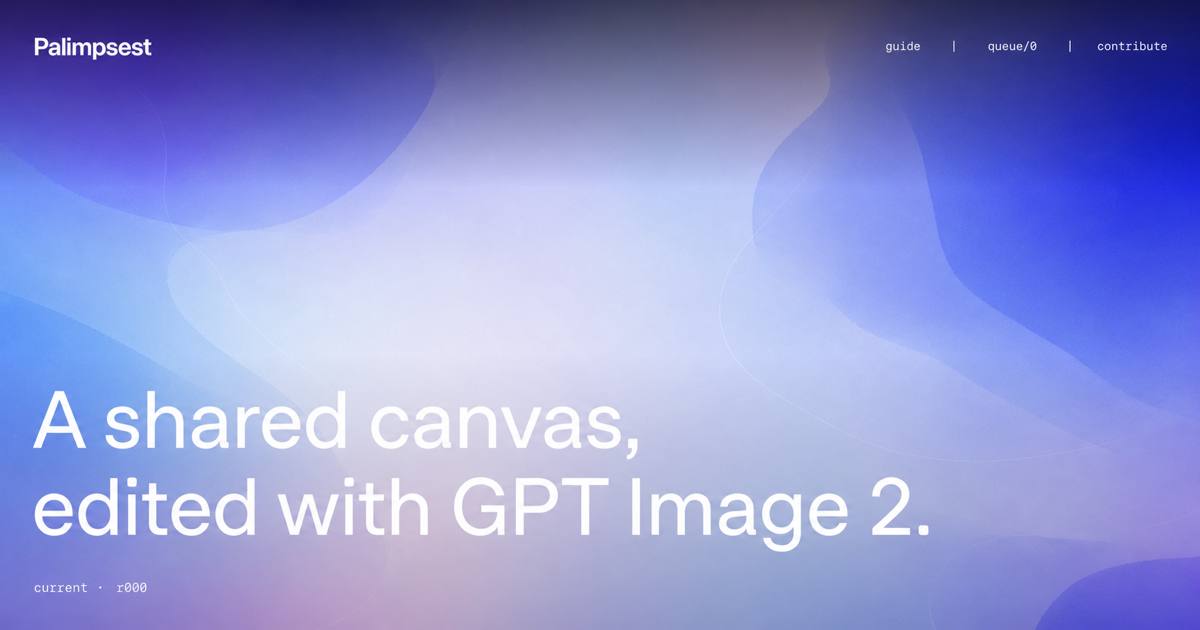
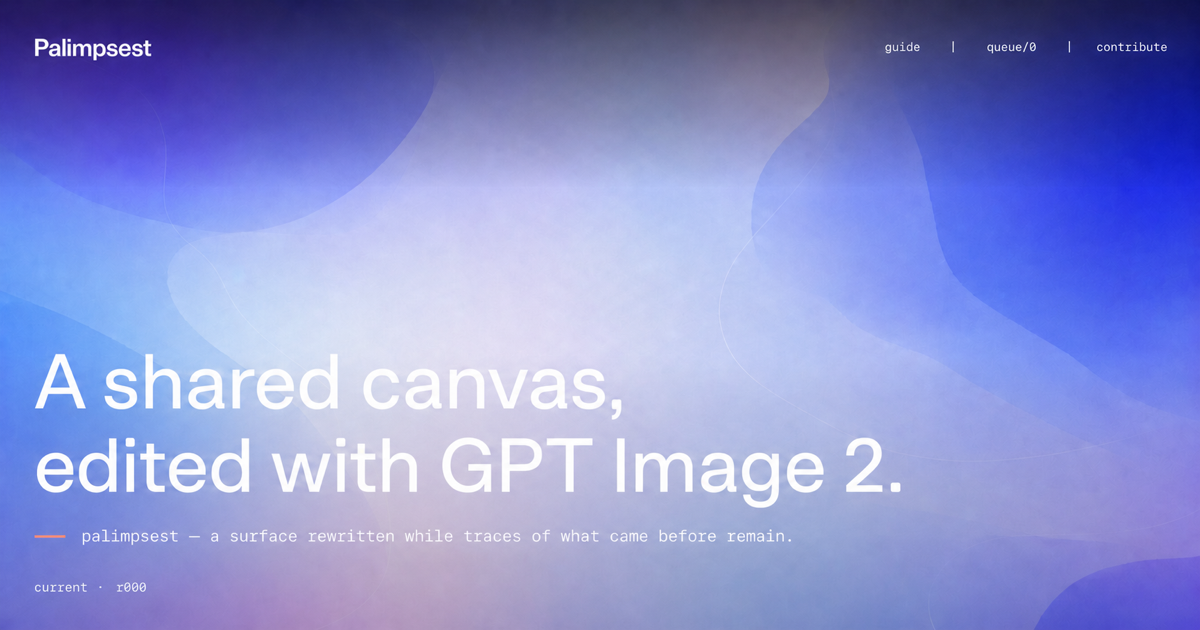
Explain Palimpsest in public sharing copy

diff --git a/app/layout.tsx b/app/layout.tsx
@@ -8,7 +8,7 @@ export async function generateMetadata(): Promise<Metadata> {
   const metadataBase = siteUrlFromHeaders(requestHeaders);
   const title = "Palimpsest";
   const description =
-    "A shared canvas edited with GPT Image 2. Add to the image and explore every revision.";
+    "Palimpsest is a shared canvas edited with GPT Image 2—named for a surface rewritten while traces of what came before remain.";
 
   return {
     metadataBase,
@@ -51,7 +51,7 @@ export async function generateMetadata(): Promise<Metadata> {
           url: "/og.png",
           width: 1200,
           height: 630,
-          alt: "Palimpsest — a shared canvas edited with GPT Image 2",
+          alt: "Purple Palimpsest social card with its GPT Image 2 description and the meaning of palimpsest",
         },
       ],
     },

diff --git a/app/page.tsx b/app/page.tsx
@@ -6,8 +6,8 @@ export default function Home() {
       <div className="visually-hidden">
         <h1>Palimpsest</h1>
         <p>
-          A shared canvas edited with GPT Image 2. Add to the image and explore every
-          revision.
+          Palimpsest is a shared canvas edited with GPT Image 2—named for a surface
+          rewritten while traces of what came before remain.
         </p>
       </div>
       <Palimpsest />

diff --git a/app/Palimpsest.tsx b/app/Palimpsest.tsx
@@ -684,7 +684,8 @@ function WelcomeDrawer({
 
           <div className="mono-welcome-guide">
             <p id="welcome-description" className="mono-welcome-summary">
-              One shared canvas. Every accepted edit becomes the next revision; earlier
+              A palimpsest is a surface rewritten while traces of what came before
+              remain. Here, every accepted edit becomes the next revision; earlier
               versions stay available.
             </p>
 

diff --git a/app/manifest.ts b/app/manifest.ts
@@ -5,7 +5,7 @@ export default function manifest(): MetadataRoute.Manifest {
     name: "Palimpsest",
     short_name: "Palimpsest",
     description:
-      "A shared canvas edited with GPT Image 2. Add to the image and explore every revision.",
+      "Palimpsest is a shared canvas edited with GPT Image 2—named for a surface rewritten while traces of what came before remain.",
     start_url: "/",
     display: "standalone",
     background_color: "#4f46d8",